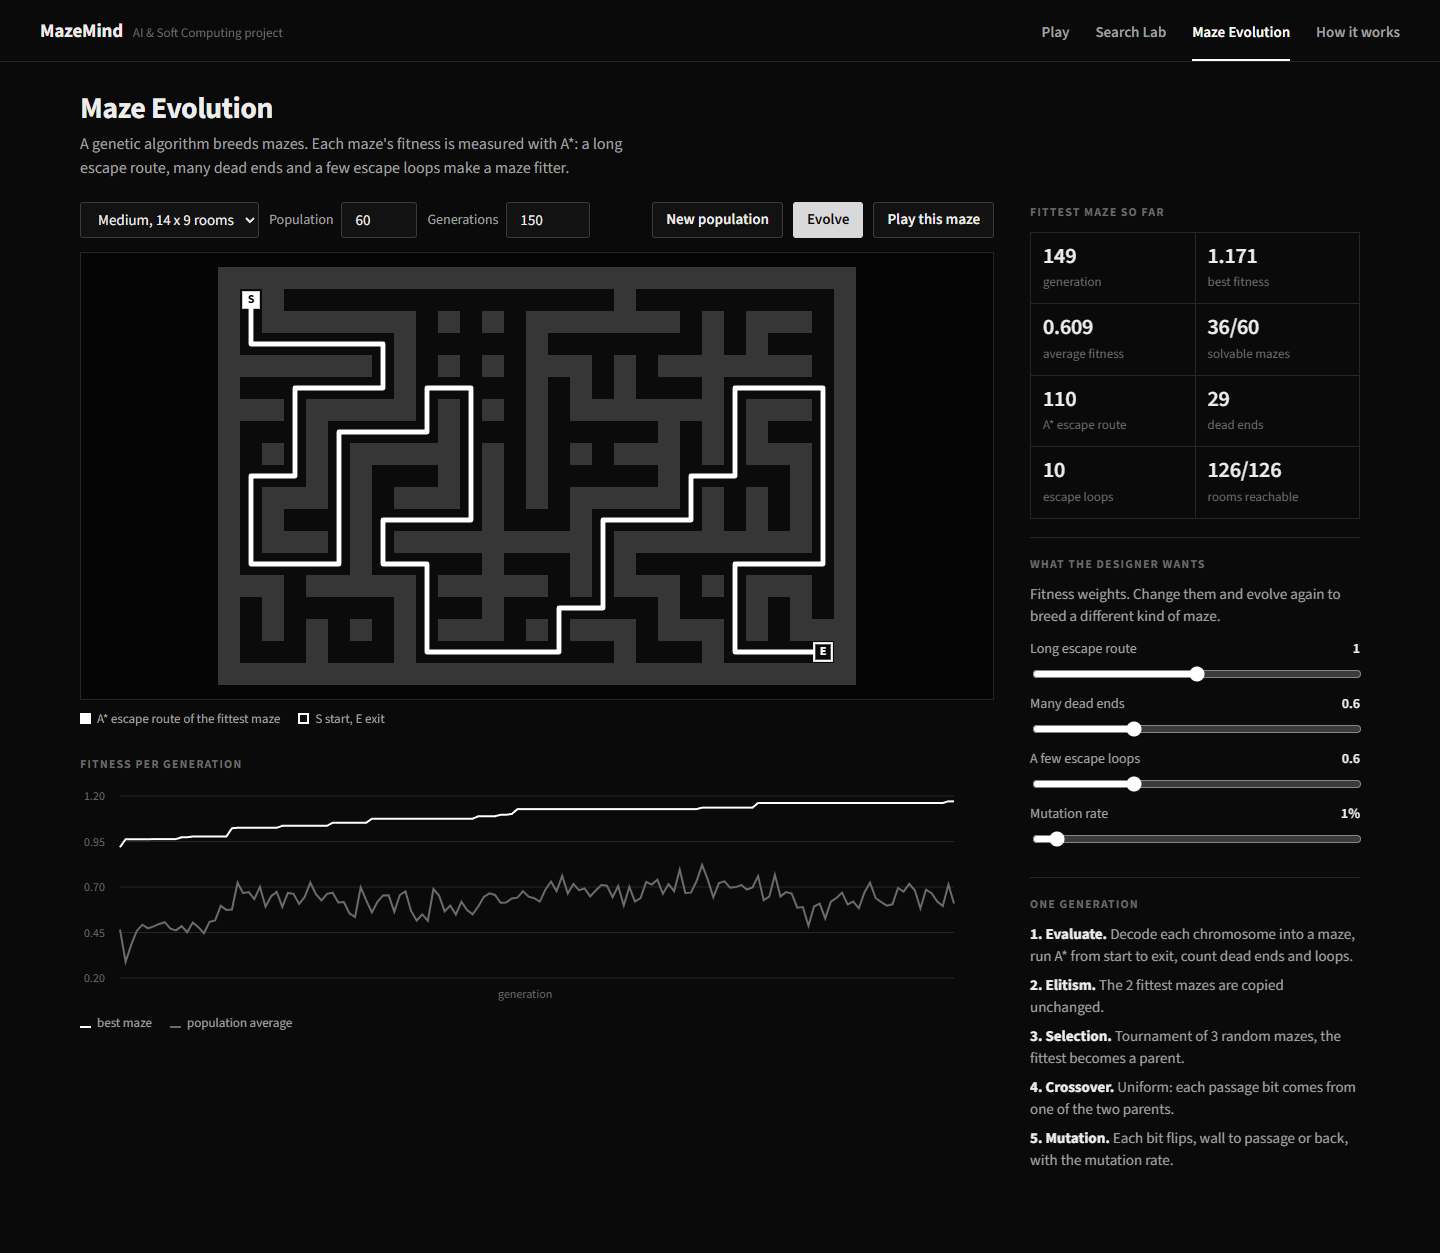
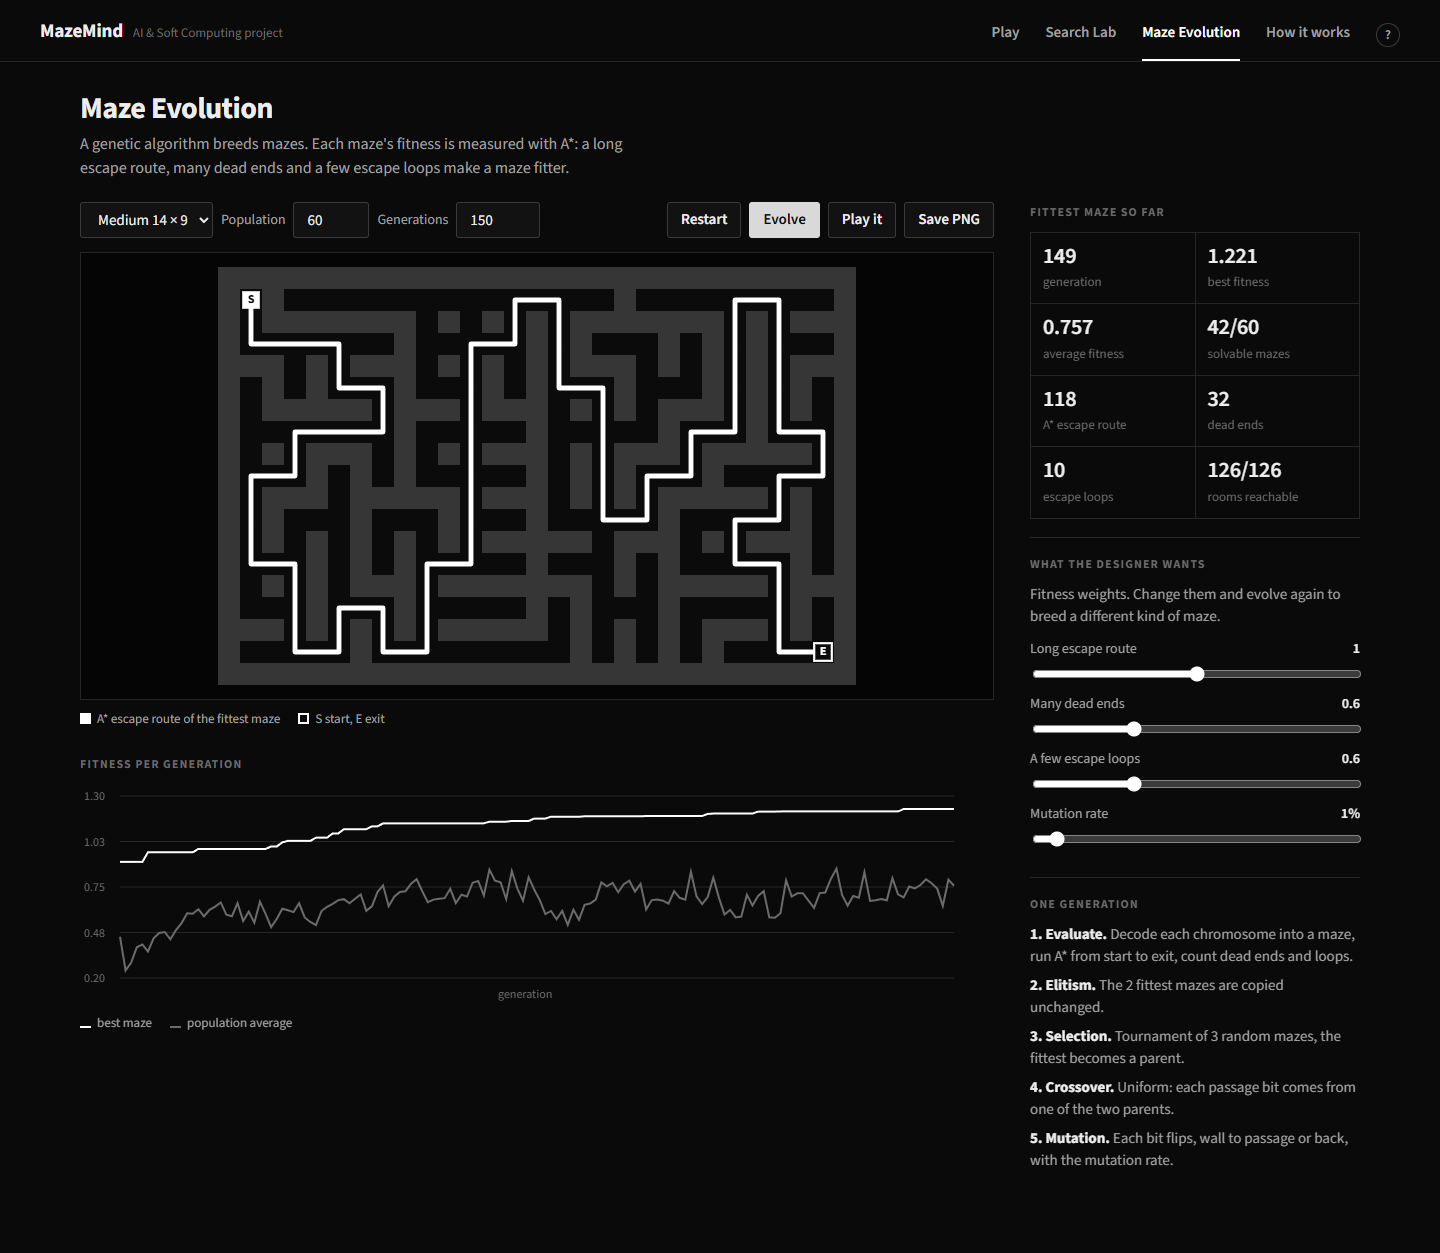
readme: controls table, demo guide, new features

diff --git a/README.md b/README.md
@@ -19,13 +19,13 @@ Made for the **Artificial Intelligence & Soft Computing** course.
 
 ## Screens
 
-**Play** - the game. The panel on the right shows each hunter's brain live: fuzzy inputs, which rules fired, its aggression, its mode and how many cells its search expanded. Tick "Show AI thinking" to see the planned routes (dashed) and the searched cells (tinted).
+**Play** - the game, 4 levels and 3 difficulties. The panel on the right shows each hunter's brain live: fuzzy inputs, the strongest rule that fired, its aggression, its mode and how many cells its search expanded. Tick "Show AI thinking" to see the planned routes (dashed) and the searched cells (tinted). Your best score per level is remembered, there are sound effects (M to mute), and on a touch screen you drag on the maze to steer.
 
-**Search Lab** - draw walls, drag the start and goal, and watch BFS, DFS, greedy best-first or A* explore step by step. "Compare all" runs all four and shows path length, cells expanded, max frontier size and time.
+**Search Lab** - draw walls, drag the start and goal, and watch BFS, DFS, greedy best-first or A* explore. "Step" expands one cell per click and explains it (for A*: g, h and f). After a search, point at any cell to see when it was expanded. "Compare all" runs all four and shows path length, cells expanded, max frontier size and time.
 
 ![Search Lab](docs/screenshots/search_lab.png)
 
-**Maze Evolution** - runs the genetic algorithm live with a fitness chart. You can change what the "designer" wants (long route, dead ends, loops) and then play the evolved maze.
+**Maze Evolution** - runs the genetic algorithm live with a fitness chart. You can change what the "designer" wants (long route, dead ends, loops), play the evolved maze ("Play it") or save it as a picture ("Save PNG").
 
 ![Maze Evolution](docs/screenshots/maze_evolution.png)
 
@@ -91,8 +91,18 @@ A* finds the same shortest path as BFS but expands fewer cells. Greedy and DFS a
 
 ## Running it
 
-- Open `index.html` in Chrome, Edge or Firefox. It works offline.
-- Controls: arrow keys or WASD to move, P pause, R restart, N next level after a win.
+- Open `index.html` in Chrome, Edge or Firefox. It works offline (the font is included).
+
+| Key | Does |
+|---|---|
+| Arrow keys or WASD | move (hold to keep walking, press early to turn at the next corner) |
+| P | pause |
+| R | restart the same maze |
+| N | next level, after you escape |
+| M | sound on / off |
+| ? | list of shortcuts |
+
+The game pauses by itself when you switch to another tab or window.
 
 Tests (needs Node.js 18 or newer, no packages to install):
 
@@ -100,7 +110,7 @@ Tests (needs Node.js 18 or newer, no packages to install):
 npm test
 ```
 
-57 tests for the grid, the four searches, the maze generator, the fuzzy controller, the game rules and the genetic algorithm.
+61 tests for the grid, the four searches, the maze generator, the fuzzy controller, the game rules and the genetic algorithm. Some search tests run on 10 random mazes instead of one hand-made grid.
 
 ## Files
 
@@ -114,9 +124,19 @@ js/fuzzy.js         fuzzy sets, Mamdani inference, the hunter's rule base
 js/game.js          game rules and hunter AI
 js/genetic.js       genetic algorithm for mazes
 js/render.js        canvas drawing
+js/sound.js         sound effects (Web Audio, no sound files)
 js/ui-*.js          one file per screen
 tests/              node --test unit tests
+fonts/              Source Sans 3 (SIL Open Font License, see fonts/OFL.txt)
 ```
+
+## Demo in 3 minutes
+
+1. **Play**, level 2, "Show AI thinking" on. Point at the brain panel: distance and energy go in, a fuzzy rule fires, aggression comes out, aggression picks the mode.
+2. Switch "Hunters use" to **DFS**: the dashed routes get long and wander. Switch back to **A\***.
+3. **Search Lab**: press **Step** a few times and read the g, h, f line. Then **Compare all**: A* and BFS find the same shortest path, A* expands fewer cells, greedy and DFS find longer paths.
+4. **How it works**: move the distance and energy sliders and watch the rules light up and the centroid move.
+5. **Maze Evolution**: **Evolve**, watch the best fitness climb, then **Play it**.
 
 ## Team
 
